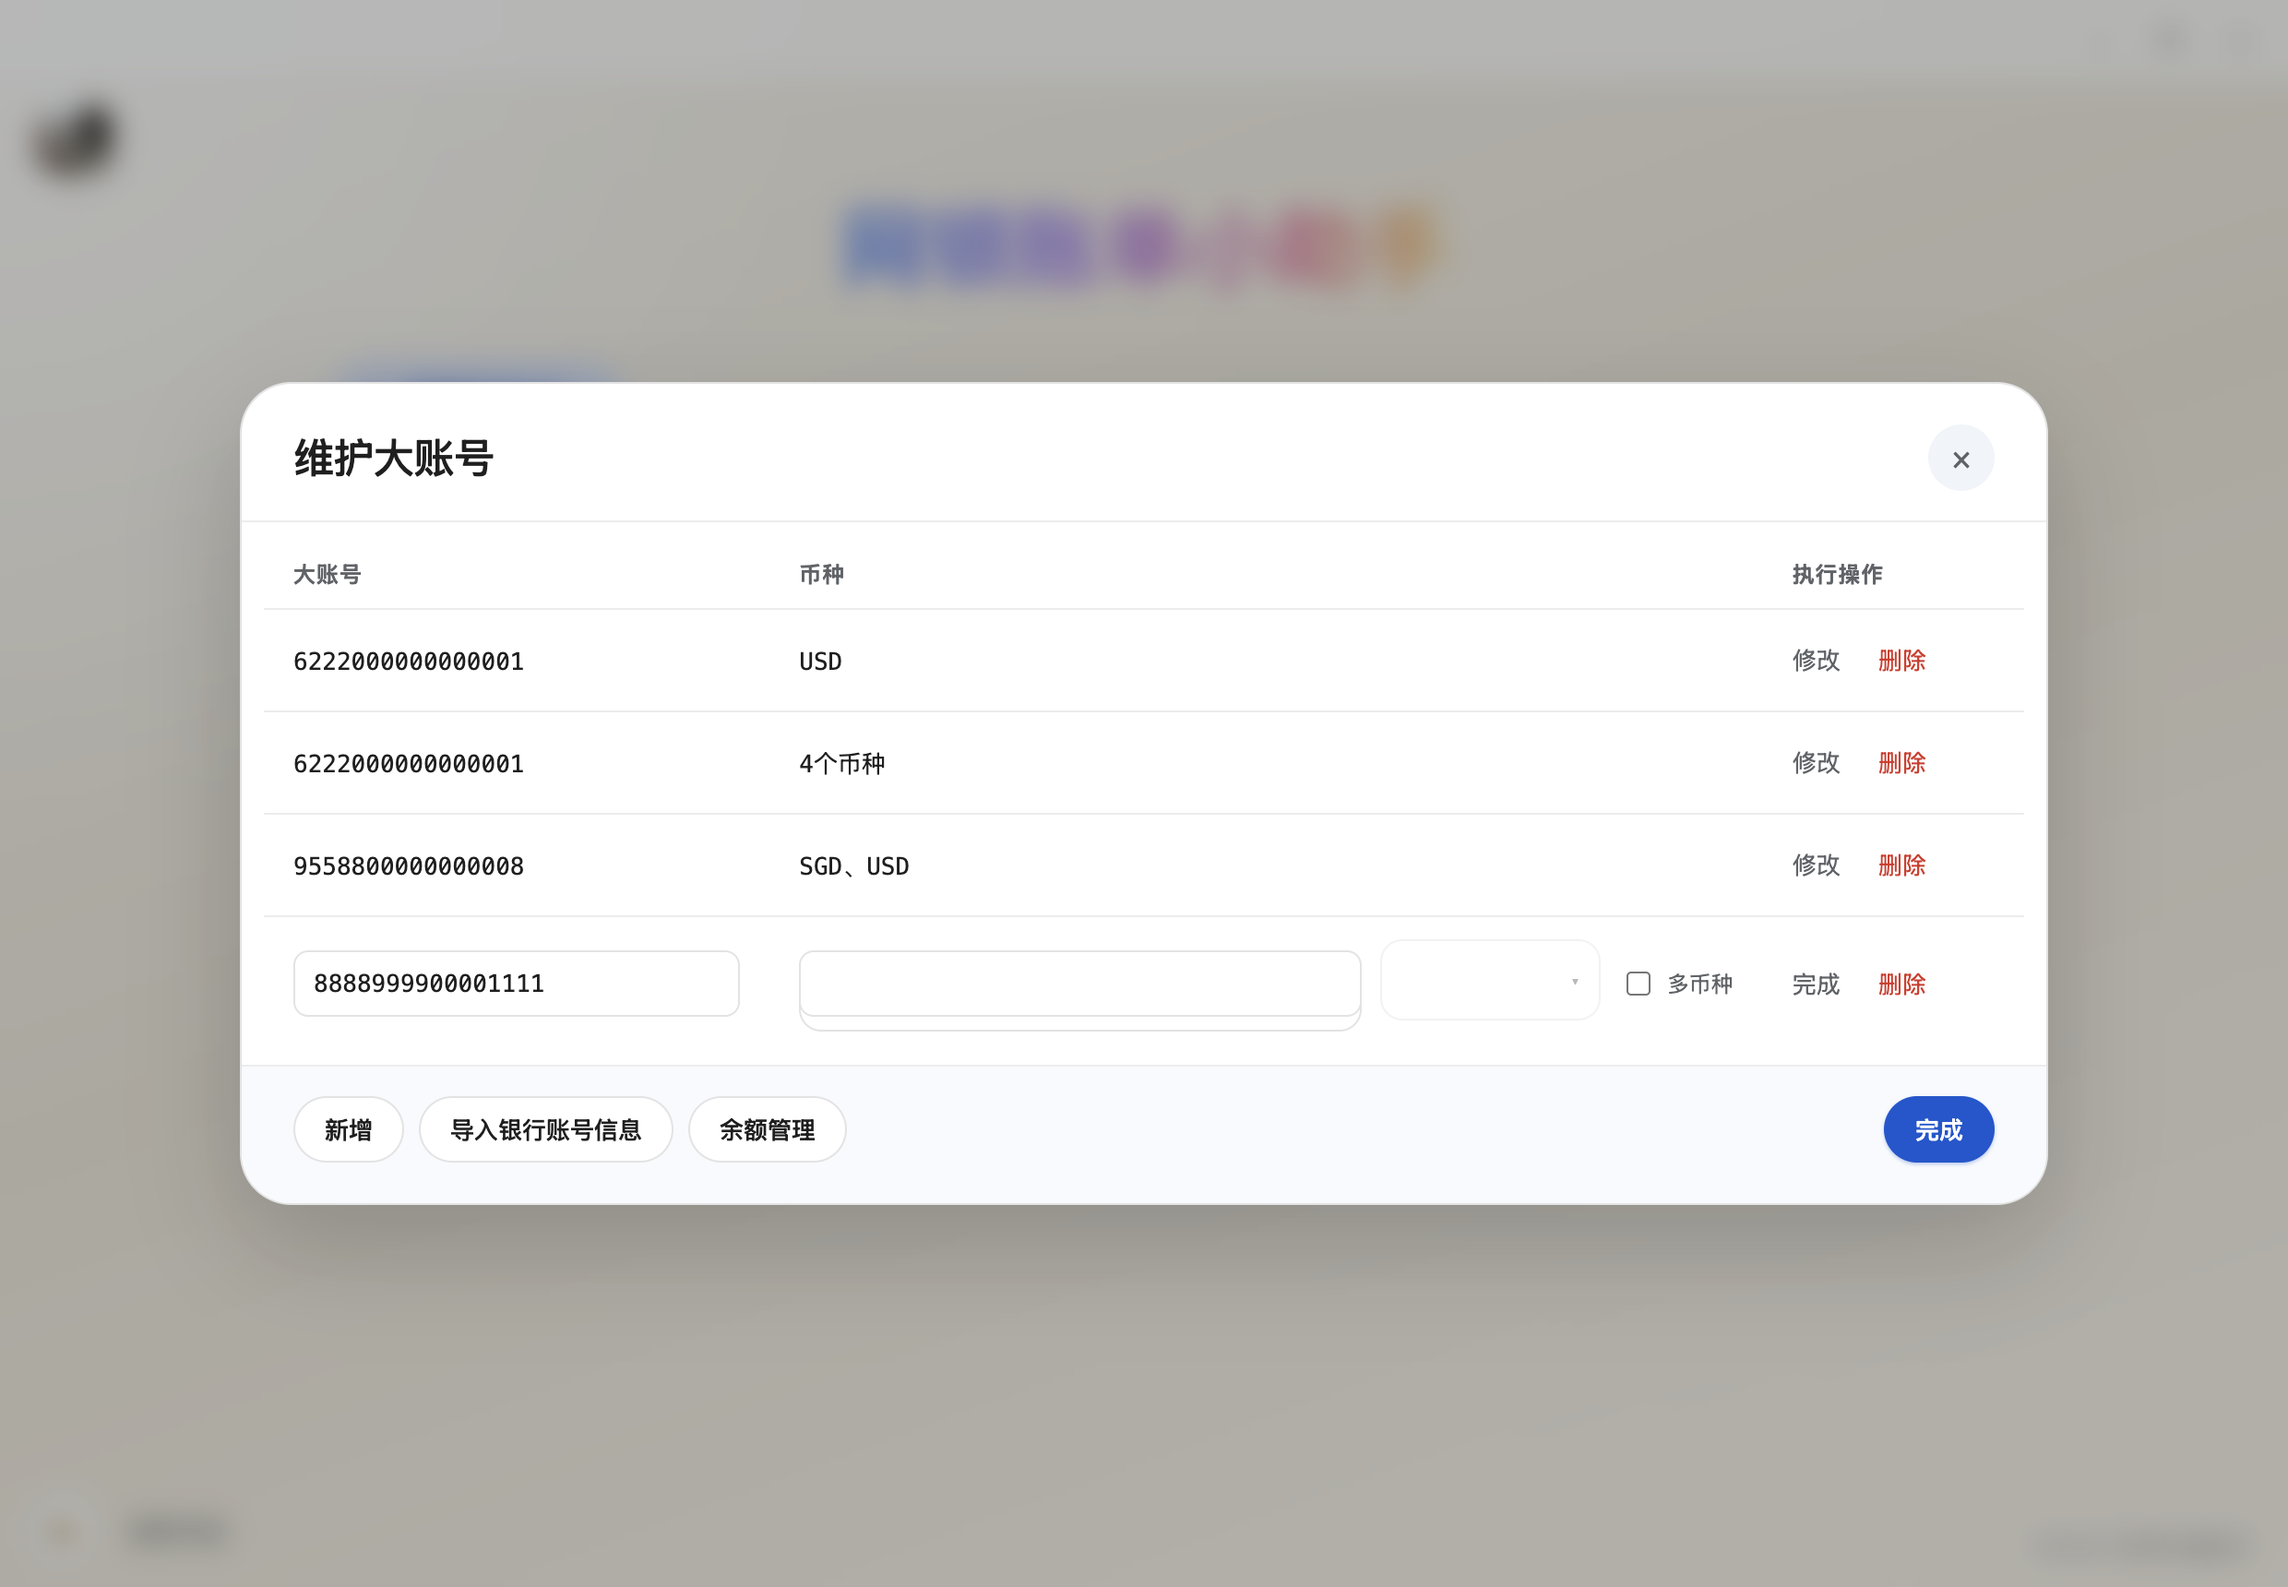
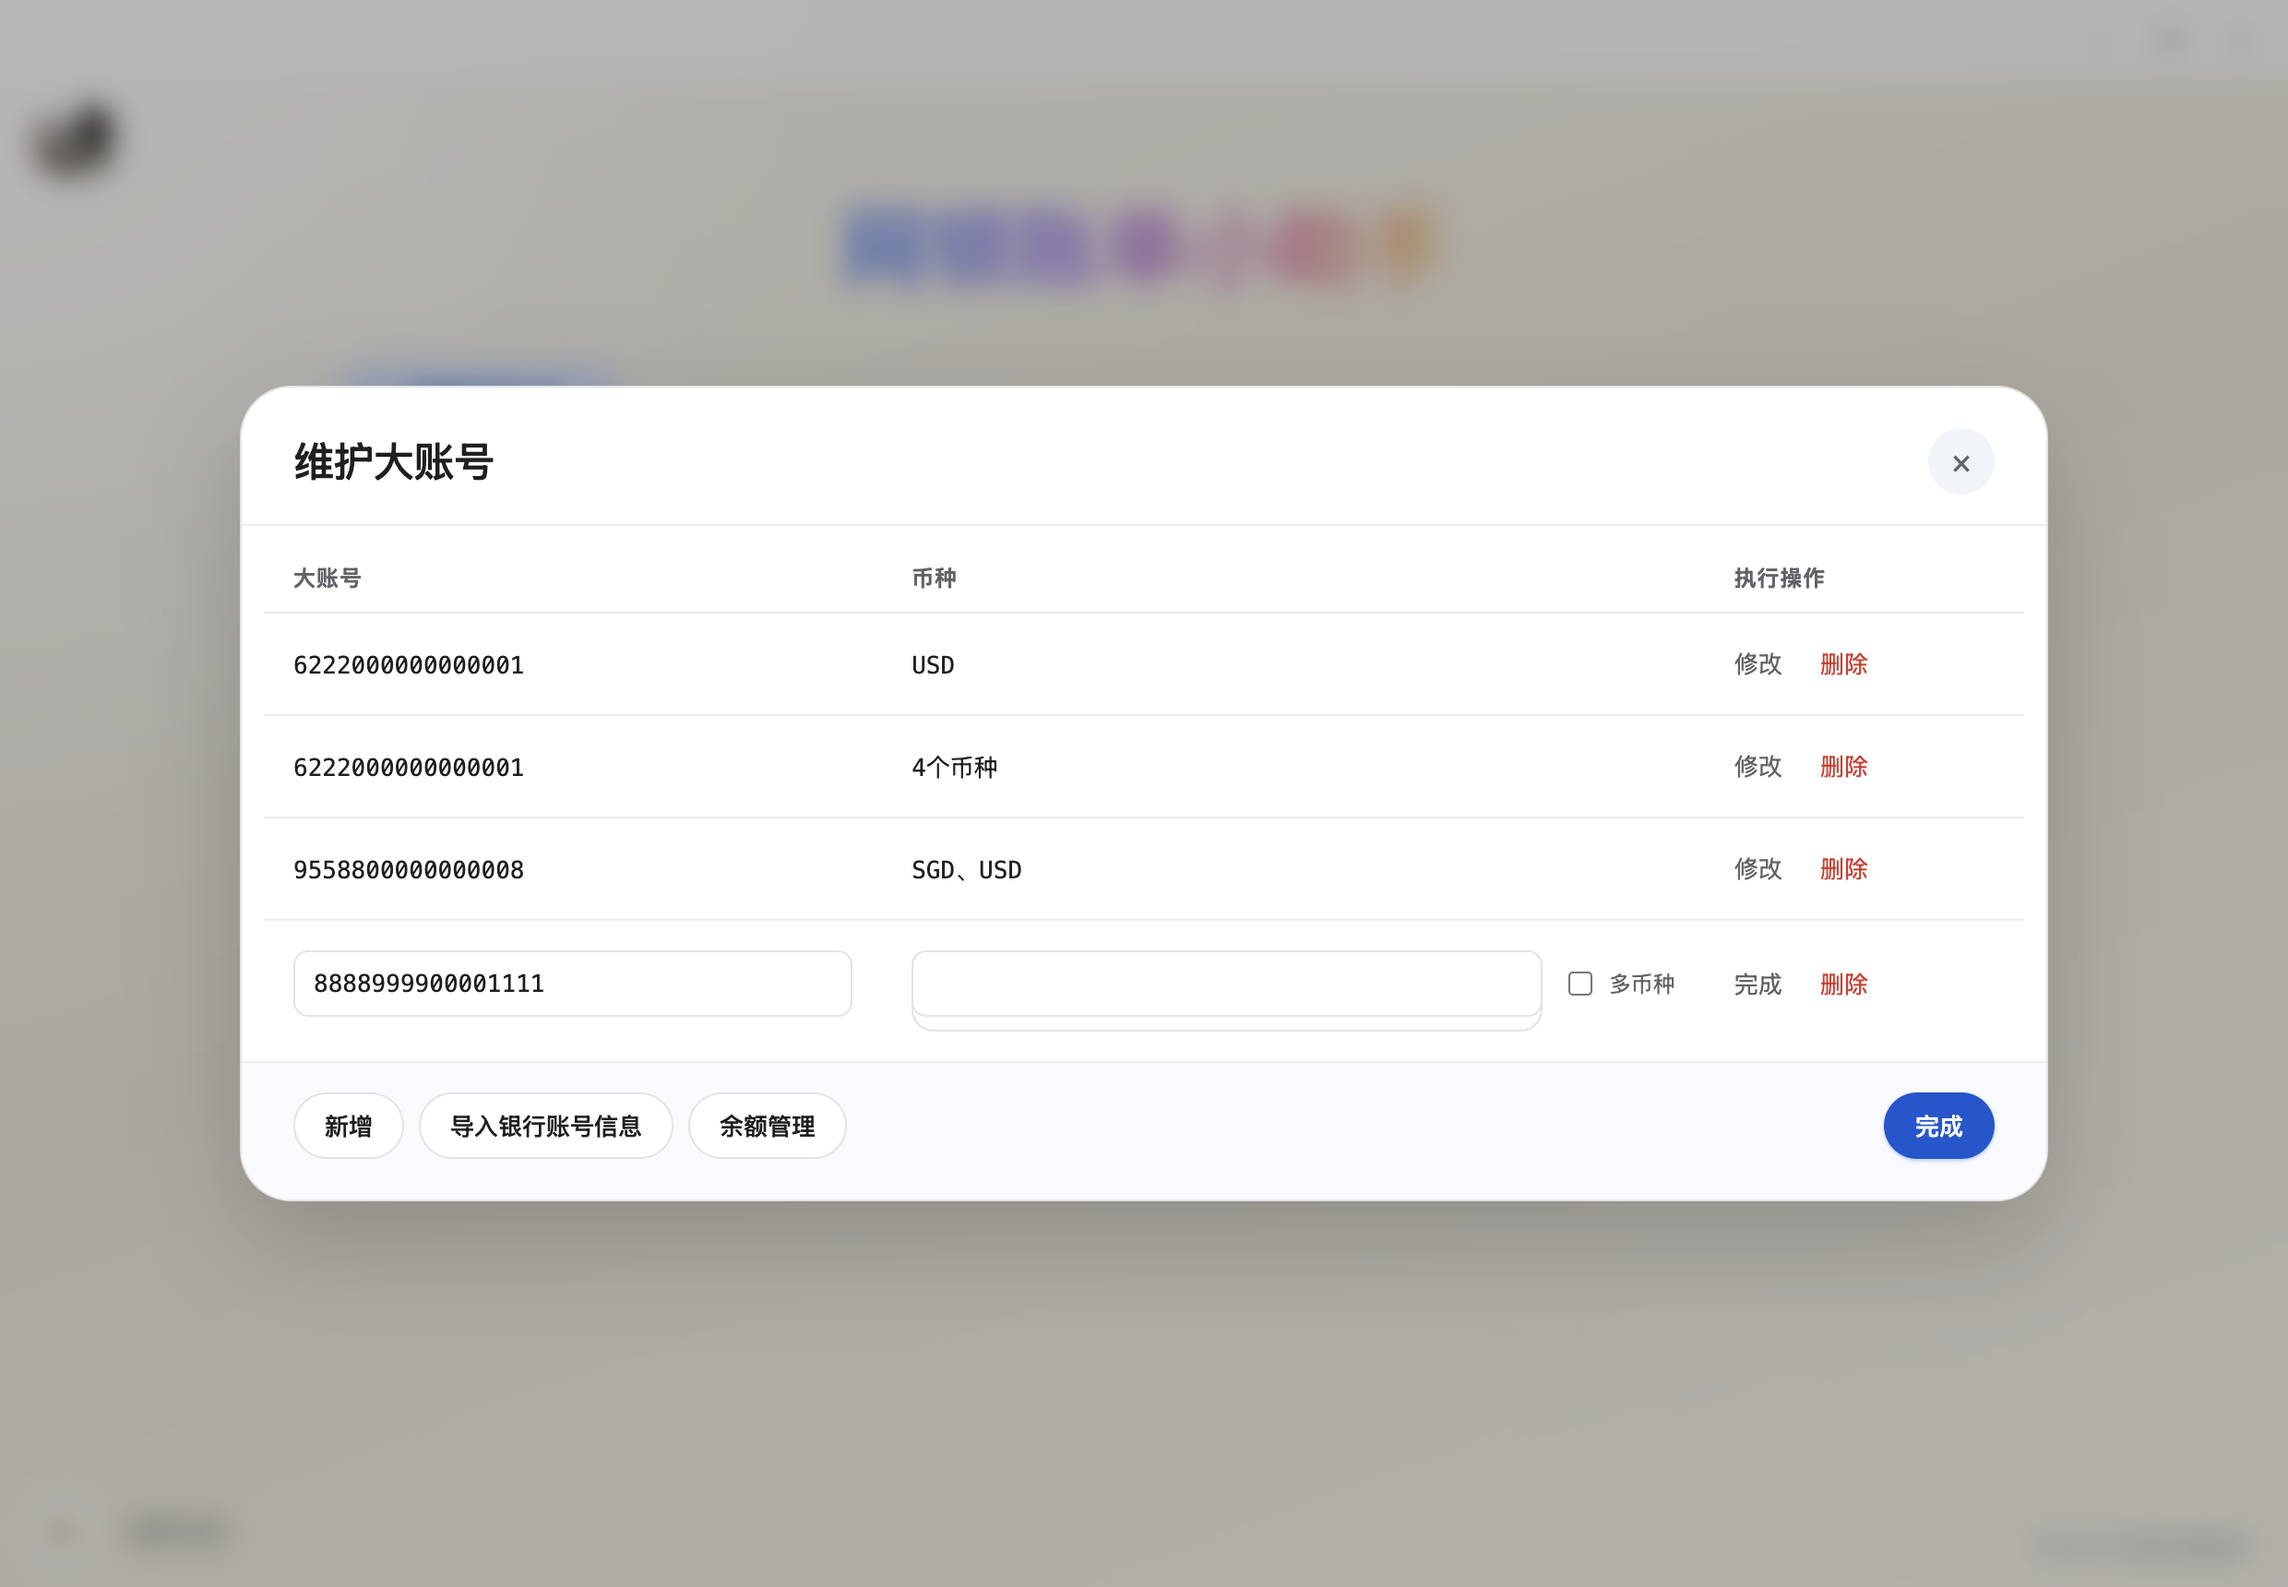
[v2.0.0-beta.2] revert(html): 维护大账号币种行回到 hidden 互斥（撤销 69e5d7d）
按用户最新意图调整：
- 单币种态：[输入框 + 多币种 checkbox]
- 多币种态：[多选下拉框 + 多币种 checkbox]（dropdown 替换 input）

撤销 69e5d7d 的"3 元素始终并排"方案：
- HTML dropdown wrap 加回 hidden 默认
- syncCurrencyMode classList toggle is-inactive → hidden 切换
- dropdownButton click guard !multiCheckbox.checked → dropdownWrap.hidden
- 双风格删除 .is-inactive css

恢复 src 原 v1.5.x 行为；视觉与 General 一致（hidden 切换互斥）。

smoke ✅ pass，双风格 preview 重渲。

diff --git a/src/renderer-dialogs.js b/src/renderer-dialogs.js
@@ -1976,7 +1976,7 @@
                 <input class="new-account-input enum-ghost-input big-account-currency-ghost" type="text" tabindex="-1" disabled />
                 <input class="new-account-input enum-active-input big-account-currency-input" type="text" spellcheck="false" />
               </div>
-              <div class="new-account-currency-dropdown-wrap big-account-currency-dropdown-wrap">
+              <div class="new-account-currency-dropdown-wrap big-account-currency-dropdown-wrap" hidden>
                 <button class="new-account-input new-account-currency-dropdown-btn big-account-currency-dropdown-btn" type="button" aria-expanded="false"></button>
               </div>
               <label class="new-account-checkbox-label big-account-multi-label">
@@ -2058,10 +2058,8 @@
 
         function syncCurrencyMode() {
           const isMultiCurrency = multiCheckbox.checked;
-          // v2.0.0-beta.2 阶段 5 收尾：input shell + dropdown wrap 始终并排可见，
-          // 通过 .is-inactive 视觉禁用非当前态（pointer-events:none + opacity）
-          currencyInputShell.classList.toggle('is-inactive', isMultiCurrency);
-          dropdownWrap.classList.toggle('is-inactive', !isMultiCurrency);
+          currencyInputShell.hidden = isMultiCurrency;
+          dropdownWrap.hidden = !isMultiCurrency;
 
           if (!isMultiCurrency) {
             if (activeFloatingDropdown?.button === dropdownButton) {
@@ -2075,8 +2073,7 @@
         }
 
         dropdownButton.addEventListener('click', () => {
-          // v2.0.0-beta.2 阶段 5 收尾：dropdown 始终可见，但单币种态下不能点开
-          if (!multiCheckbox.checked) {
+          if (dropdownWrap.hidden) {
             return;
           }
 

diff --git a/src/styles-gemini-extra.css b/src/styles-gemini-extra.css
@@ -1392,11 +1392,6 @@ tr.add-row .text-action:hover { background: #c2d7fa; }
   font-size: 12px; color: var(--muted);
   white-space: nowrap;
 }
-.big-account-currency-input-shell.is-inactive,
-.big-account-currency-dropdown-wrap.is-inactive {
-  opacity: .45;
-  pointer-events: none;
-}
 .big-account-currency-floating-panel {
   z-index: 32;
   max-height: 320px;

diff --git a/src/styles.css b/src/styles.css
@@ -1902,12 +1902,6 @@ select {
   margin: 0 auto;
 }
 
-.big-account-currency-input-shell.is-inactive,
-.big-account-currency-dropdown-wrap.is-inactive {
-  opacity: .45;
-  pointer-events: none;
-}
-
 .big-account-view-text {
   display: block;
   min-height: 44px;
